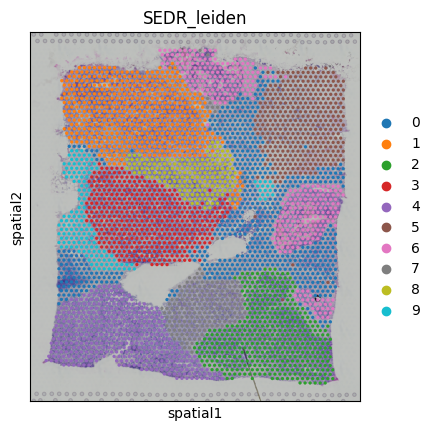
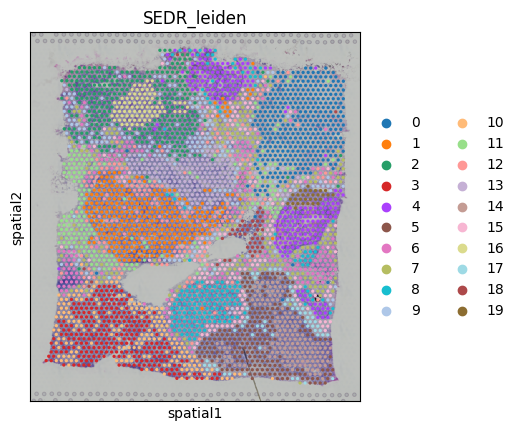
discriminator working

diff --git a/models/descriminatorModels/classifier_trainer.py b/models/descriminatorModels/classifier_trainer.py
@@ -5,7 +5,7 @@ from torch.utils.data import TensorDataset, DataLoader
 
 class BinaryClassifierTrainer(): 
     def __init__(self, n_latent):
-        
+
         self.model = BinaryClassifier(n_latent)
         self.lr = 0.001
         self.weight_decay = 0
@@ -14,36 +14,40 @@ class BinaryClassifierTrainer():
         self.optimizer = torch.optim.Adam(params=list(self.model.parameters()),
                                           lr=self.lr, weight_decay=self.weight_decay)
 
-        
+
     def get_acc(self, pred, true):
         pred_vals = torch.round(torch.sigmoid(pred))
 
         correct_results_sum = (pred_vals == true).sum().float()
         acc = correct_results_sum/true.shape[0]
         acc = torch.round(acc * 100)
-        
+
         return acc
 
     def train(self, zs, labels):
-        dataset = TensorDataset(zs, labels)
-        dataloader = DataLoader(dataset, batch_size = self.batch_size)
-        
+        zs_tensor = torch.Tensor(zs)
+        labels_tensor = torch.Tensor(labels)
+
+        dataset = TensorDataset(zs_tensor, labels_tensor.unsqueeze(1))
+        dataloader = DataLoader(dataset, batch_size = self.batch_size, shuffle=True)
+
         batch_loss = 0
         batch_acc = 0 
         for z_batch, labels_true in iter(dataloader):
             self.optimizer.zero_grad()
             labels_pred = self.model(z_batch)
-            
+
             loss = self.loss_function(labels_pred, labels_true)
             acc = self.get_acc(labels_pred, labels_true) 
             loss.backward()
             self.optimizer.step()
             batch_loss += loss.item()
             batch_acc += acc.item()
-        
+
         total_loss = batch_loss / len(dataloader)
         total_acc = batch_acc / len(dataloader)
         return total_loss, total_acc
 
-    def forward(self, Z):
-        return self.model(Z)
+    def predict(self, Z):
+        zs_tensor = torch.Tensor(Z)
+        return torch.round(torch.sigmoid(self.model(zs_tensor)))

diff --git a/test_discriminator.py b/test_discriminator.py
@@ -1,0 +1,51 @@
+import matplotlib.pyplot as plt 
+from models.descriminatorModels.classifier_trainer import BinaryClassifierTrainer
+import numpy as np
+discriminator = BinaryClassifierTrainer(n_latent=10)
+
+from sklearn.decomposition import PCA
+
+
+### test 
+# X0 = np.genfromtxt('data/latent_spaces/adipose_latent_250epoch.tsv')
+# X1 = np.genfromtxt('data/latent_spaces/lung_human_ASK440_latent_250epoch.tsv')
+X0 = np.genfromtxt('data/latent_spaces/scRNA_10D_shared_genes.tsv')
+X1 = np.genfromtxt('data/latent_spaces/st_10D_shared_genes.tsv')
+X = np.concatenate((X0, X1))
+y = np.concatenate((np.zeros(X0.shape[0]), np.ones(X1.shape[0])))
+    
+pca = PCA(n_components=2)
+pca.fit(X0)
+X2d = pca.fit_transform(X)
+
+
+### test for noisy 2D data
+# num_samples = 5000
+# mean_0 = np.array([0, 0])
+# cov_0 = np.array([[1, 0.5], [0.5, 2]])  # covariance matrix for class 0
+# mean_1 = np.array([2, 2])
+# cov_1 = np.array([[1, -0.5], [-0.5, 1]])  # covariance matrix for class 1
+# X_0 = np.random.multivariate_normal(mean_0, cov_0, num_samples // 2)
+# X_1 = np.random.multivariate_normal(mean_1, cov_1, num_samples // 2)
+# X = np.concatenate((X_0, X_1))
+# y = np.concatenate((np.zeros(num_samples // 2), np.ones(num_samples // 2)))
+
+for i in range(20):
+    loss, acc = discriminator.train(X,y)
+    print(loss, acc)
+
+ypred = discriminator.predict(X).detach().numpy().flatten()
+
+plt.figure(121)
+plt.scatter(X2d[y==0,0], X2d[y==0,1], label='adipose', s=1)
+plt.scatter(X2d[y==1,0], X2d[y==1,1], label='lung', s=1)
+plt.xlabel('PCA 1')
+plt.ylabel('PCA 2')
+plt.legend()
+plt.figure(122)
+plt.scatter(X2d[ypred==0,0], X2d[ypred==0,1], label='predicted class 0',s=1)
+plt.scatter(X2d[ypred==1,0], X2d[ypred==1,1], label='predicted class 1',s=1)
+plt.xlabel('PCA 1')
+plt.ylabel('PCA 2')
+plt.legend()
+plt.show()

diff --git a/test_sedr.py b/test_sedr.py
@@ -31,10 +31,10 @@ sedr_params.device = device
 
 # ################## Data download folder
 data_root = './data/10x_Genomics_Visium/'
-# data_name = 'V1_Breast_Cancer_Block_A_Section_1'
+data_name = 'V1_Breast_Cancer_Block_A_Section_1'
 # data_name = 'V1_Breast_Cancer_Block_A_Section_2'
 # data_name = 'V1_Human_Brain_Section_1'
-data_name = 'V1_Human_Brain_Section_1'
+# data_name = 'V1_Human_Brain_Section_1'
 save_fold = os.path.join('./output/10x_Genomics_Visium/', data_name)
 
 
@@ -53,12 +53,12 @@ print('==== Graph Construction Finished')
 # print('==== Graph Construction Finished')
 
 
-NUM_EPOCHS = 100
+NUM_EPOCHS = 500
 
 # set sedr version = 1 to use original sedr, no modifications
 # version 2: modified sedr where only one latent space is produced for both spatial and sc
 
-sedr_version = 1
+sedr_version = 2
 
 # currently not yet modified for training with dec
 sedr_params.using_dec = False
@@ -115,10 +115,10 @@ eval_resolution = res_search_fixed_clus(adata_sedr, n_clusters)
 sc.tl.leiden(adata_sedr, key_added="SEDR_leiden", resolution=eval_resolution)
 
 image = adata_h5.uns['spatial'][data_name]['images']['hires']
-image = (1-image*2)[:, :, (1,2,0)]
+# image = (1-image*2)[:, :, (1,2,0)]
 adata_sedr.uns['spatial'][data_name]['images']['hires'] = image
 # will be saved under figures/ with sedr version and dataset
-sc.pl.spatial(adata_sedr, img_key="hires", color=['SEDR_leiden'], save=f"_sedr_v{sedr_version}_clustering_"+data_name+".png")
+sc.pl.spatial(adata_sedr, img_key="hires", color=['SEDR_leiden'], save=f"_sedr_v{sedr_version}_clustering_500ep_"+data_name+".png")
 
 
 

diff --git a/models/descriminatorModels/classifier.py b/models/descriminatorModels/classifier.py
@@ -8,13 +8,13 @@ class BinaryClassifier(nn.Module):
         self.lr = 0.001
         self.weight_decay = 0
         self.batch_size = 10
-        self.layer1 = nn.Linear(n_latent, 60)
+        self.layer1 = nn.Linear(n_latent, 128)
         self.act1 = nn.ReLU()
-        self.layer2 = nn.Linear(60, 60)
+        self.layer2 = nn.Linear(128, 128)
         self.act2 = nn.ReLU()
-        self.layer3 = nn.Linear(60, 60)
+        self.layer3 = nn.Linear(128, 128)
         self.act3 = nn.ReLU()
-        self.output = nn.Linear(60, 1)
+        self.output = nn.Linear(128, 1)
 
     def forward(self, x):
         x = self.act1(self.layer1(x))
